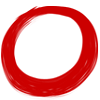
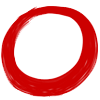
Fixed resizing

diff --git a/src/js/tic_tac_toe.js b/src/js/tic_tac_toe.js
@@ -1,16 +1,14 @@
 
 //Einbinden der Bilder
 
-var canvas;
-
 var hg = new Image();		
-hg.src="img/TicTacToe.png";
+hg.src="img/tic-tac-toe/Tic-Tac-Toe-board.png";
 
 var o = new Image();
-o.src="img/TicTacToe_0.png";
+o.src="img/tic-tac-toe/Tic-Tac-Toe-red.png";
 
 var x = new Image();
-x.src="img/TicTacToe_1.png";
+x.src="img/tic-tac-toe/Tic-Tac-Toe-blue.png";
 
 var bl = new Image();
 bl.src="img/Blue.png";
@@ -38,19 +36,28 @@ window.onload =function()
 {
 	// muss verwendet werden um etwas im canvis verendern zu können
 
-    canvas = document.getElementById("tic");
+    var canvas = document.getElementById("tic");
 	var c = canvas.getContext('2d');
+    canvas.style.width ='100%';
+    canvas.width  = canvas.scrollWidth;
+    canvas.style.height=canvas.scrollWidth+'px';
+    canvas.height = canvas.scrollWidth;
 
 
 	var hg = new Image();
-	hg.src="img/TicTacToe.png";
+	hg.src="img/tic-tac-toe/Tic-Tac-Toe-board.png";
 
 
 	// onload wird der Hintergrund gesetzt
 	hg.onload = function(){
-	c.drawImage(hg, 0, 0);
+	    c.drawImage(hg, 0, 0, hg.width, hg.height, 0, 0, canvas.scrollWidth, canvas.scrollWidth);
 	};
 
+    addListener(canvas);
+
+};
+
+function addListener(canvas) {
     canvas.addEventListener('mouseup', function(evt) {
 
         var c = canvas.getContext('2d');
@@ -58,7 +65,7 @@ window.onload =function()
         var draw=0; // schaut ob jemand gewonnen hat
         var u; // Variable für die Schleife
         var j; // Variable für die Schleife
-        var g=500; // bestimmt die Abmessungen des Feldes (500x500)
+        var g=canvas.scrollWidth; // bestimmt die Abmessungen des Feldes (500x500)
         var cX = Math.floor(getMousePos(canvas,evt).x/(g/3)); // setzt cX auf einen wert zwischen 0 und 2
         var cY = Math.floor(getMousePos(canvas,evt).y/(g/3)); // setzt cY auf einen wert zwischen 0 und 2
 
@@ -68,14 +75,14 @@ window.onload =function()
         {
             if(turn%2==0 && fieldpos[cX][cY]==0)	//Kontrolliert ob der Zug gerade ist dann ist x dran und ob schon etwas in dem Feld ist
             {
-                c.drawImage(x, (g/3*cX)+(g/15), (g/3*cY)+(g/15));	// Zeichnet das Bild des X in das gewählte Feld
+                c.drawImage(x, 0, 0, x.height, x.width, (g/3*cX), (g/3*cY), canvas.scrollWidth/3, canvas.scrollWidth/3);	// Zeichnet das Bild des X in das gewählte Feld
                 turn= turn+1;
                 fieldpos[cX][cY]=1;  // Sagt über 1 das im Feld ein X steht
             }
 
             else if(fieldpos[cX][cY]==0)
             {
-                c.drawImage(o, (g/3*cX)+(g/15), (g/3*cY)+(g/15));	// Zeichnet das Bild des O in das gewählte Feld
+                c.drawImage(o, 0, 0, o.height, o.width, (g/3*cX), (g/3*cY), canvas.scrollWidth/3, canvas.scrollWidth/3);	// Zeichnet das Bild des O in das gewählte Feld
                 turn= turn+1;
                 fieldpos[cX][cY]=2;	// Sagt über 2 das im Feld ein O steht
             }
@@ -106,7 +113,6 @@ window.onload =function()
         }
 
     },false);
-
 };
 
 

diff --git a/src/game.html b/src/game.html
@@ -61,9 +61,7 @@
 
             <!-- Game -->
             <div class="game_div col-lg-4 col-md-4 col-lg-offset-1 col-md-offset-1">
-                <div>
-                    <canvas id="tic" height="500" width="500"></canvas>
-                </div>
+                    <canvas id="tic"></canvas>
             </div>
 
             <!-- Team Chat -->
@@ -75,8 +73,7 @@
         <div class="row visible-sm hidden-xs" id="gamesite_sm">
             <!-- Game -->
             <div class="game_div col-sm-5 col-sm-offset-1">
-               
-
+                <canvas></canvas>
             </div>
 
             <!-- Team Chat -->
@@ -94,7 +91,7 @@
         <div class="row visible-xs" id="gamesite_xs">
             <!-- Game -->
             <div class="game_div col-xs-10 col-xs-offset-1">
-
+                <canvas></canvas>
             </div>
 
             <!-- Team Chat -->
